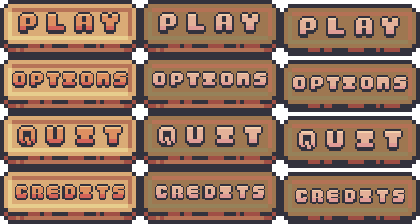
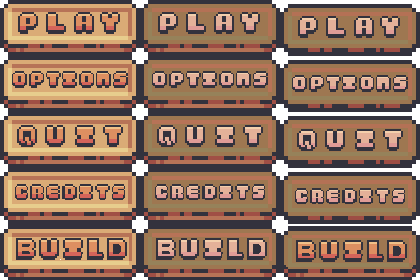
build button

diff --git a/src/main/java/com/mandarina/game/gamestates/Menu.java b/src/main/java/com/mandarina/game/gamestates/Menu.java
@@ -37,7 +37,7 @@ public class Menu implements Statemethods {
 		buttons[1] = new MenuButton(GameCts.GAME_WIDTH / 2, (int) (177 * GameCts.SCALE), 1, GameState.OPTIONS);
 		buttons[2] = new MenuButton(GameCts.GAME_WIDTH / 2, (int) (234 * GameCts.SCALE), 3, GameState.CREDITS);
 		buttons[3] = new MenuButton(GameCts.GAME_WIDTH / 2, (int) (291 * GameCts.SCALE), 2, GameState.QUIT);
-		buttons[4] = new MenuButton(GameCts.GAME_WIDTH / 2, (int) (348 * GameCts.SCALE), 2, GameState.LVLBUILDER);
+		buttons[4] = new MenuButton(GameCts.GAME_WIDTH / 2, (int) (348 * GameCts.SCALE), 4, GameState.LVLBUILDER);
 	}
 
 	@Override
